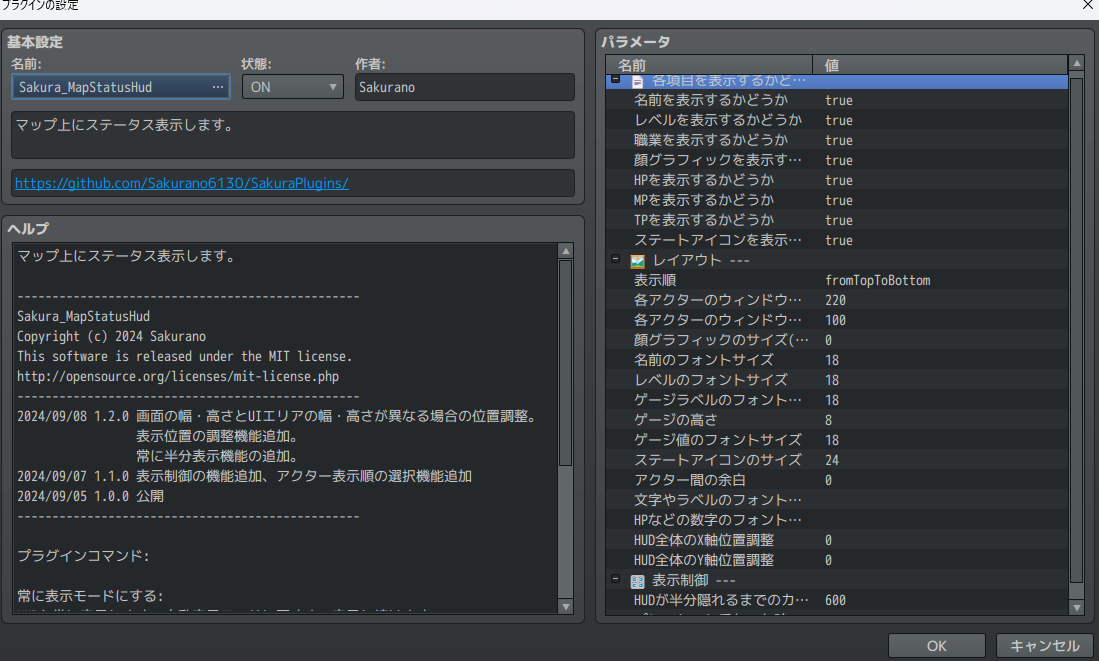
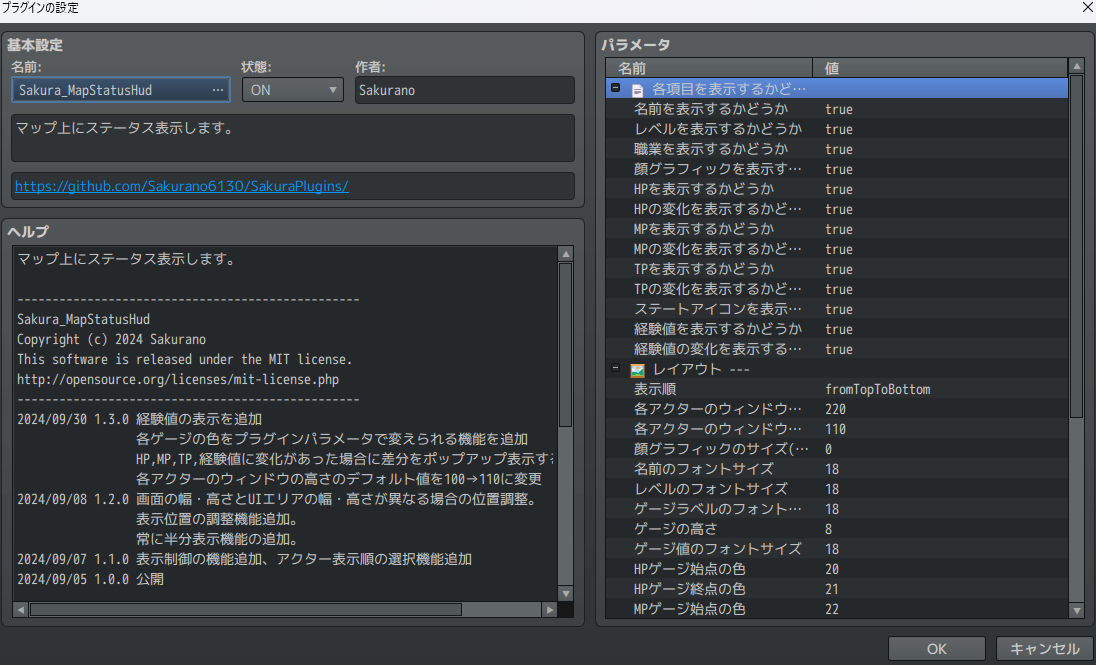
docs: MapStatusHud v1.3.0のドキュメント作成

Changed region(s): [[0.0, 0.0, 1.0, 0.9985], [0.2172, 0.4236, 0.2792, 0.4539]]

diff --git a/Sakura_MapStatusHud/Sakura_MapStatusHud.md b/Sakura_MapStatusHud/Sakura_MapStatusHud.md
@@ -7,11 +7,12 @@
 [Sakura_MapStatusHud.js](https://raw.githubusercontent.com/Sakurano6130/SakuraPlugins/main/Sakura_MapStatusHud/Sakura_MapStatusHud.js)
 
 ## 更新履歴
-| ver   | 日付       | 説明                                                                                                               |
-| ----- | ---------- | ------------------------------------------------------------------------------------------------------------------ |
-| 1.2.0 | 2024/09/08 | 画面の幅・高さとUIエリアの幅・高さが異なる場合の位置調整。<br>表示位置の調整機能追加。<br>常に半分表示機能の追加。 |
-| 1.1.0 | 2024/09/07 | 表示制御の機能追加、アクター表示順の選択機能追加                                                                   |
-| 1.0.0 | 2024/09/05 | 公開                                                                                                               |
+| ver   | 日付       | 説明                                                                                                                                                                                                                   |
+| ----- | ---------- | ---------------------------------------------------------------------------------------------------------------------------------------------------------------------------------------------------------------------- |
+| 1.3.0 | 2024/09/30 | 経験値の表示を追加<br>各ゲージの色をプラグインパラメータで変えられる機能を追加<br>HP,MP,TP,経験値に変化があった場合に差分をポップアップ表示する機能を追加<br>各アクターのウィンドウの高さのデフォルト値を100→110に変更 |
+| 1.2.0 | 2024/09/08 | 画面の幅・高さとUIエリアの幅・高さが異なる場合の位置調整。<br>表示位置の調整機能追加。<br>常に半分表示機能の追加。                                                                                                     |
+| 1.1.0 | 2024/09/07 | 表示制御の機能追加、アクター表示順の選択機能追加                                                                                                                                                                       |
+| 1.0.0 | 2024/09/05 | 公開                                                                                                                                                                                                                   |
 
 
 ## 機能概要
@@ -43,6 +44,7 @@
 
 
   ![alt text](image-9.png)
+
 
 
 ## フォントファイルの配置
